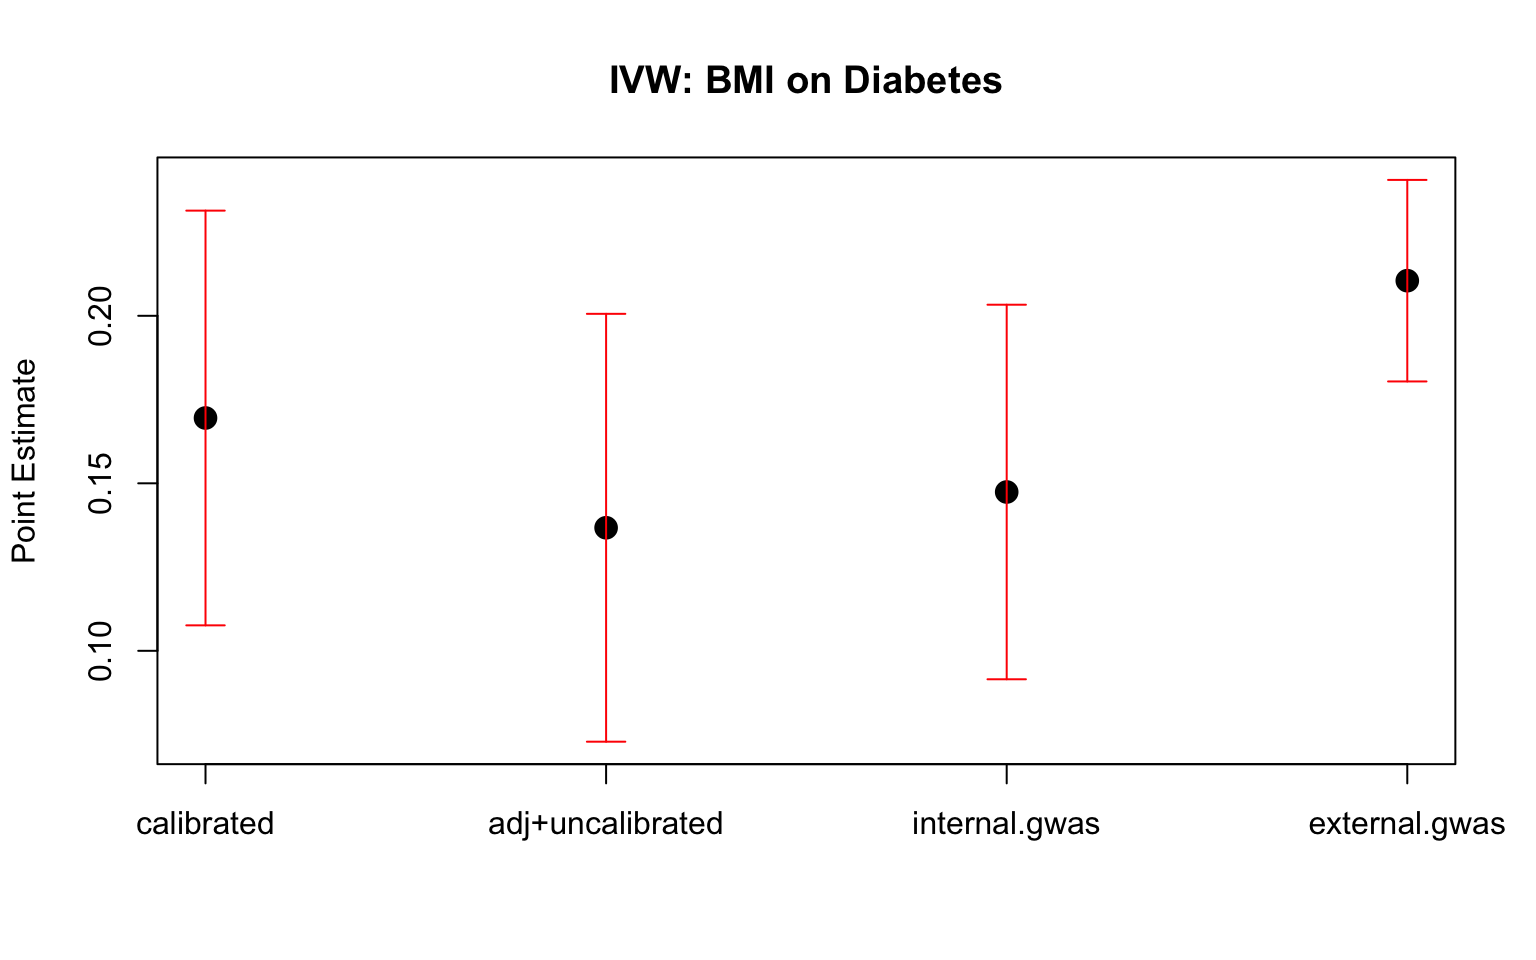
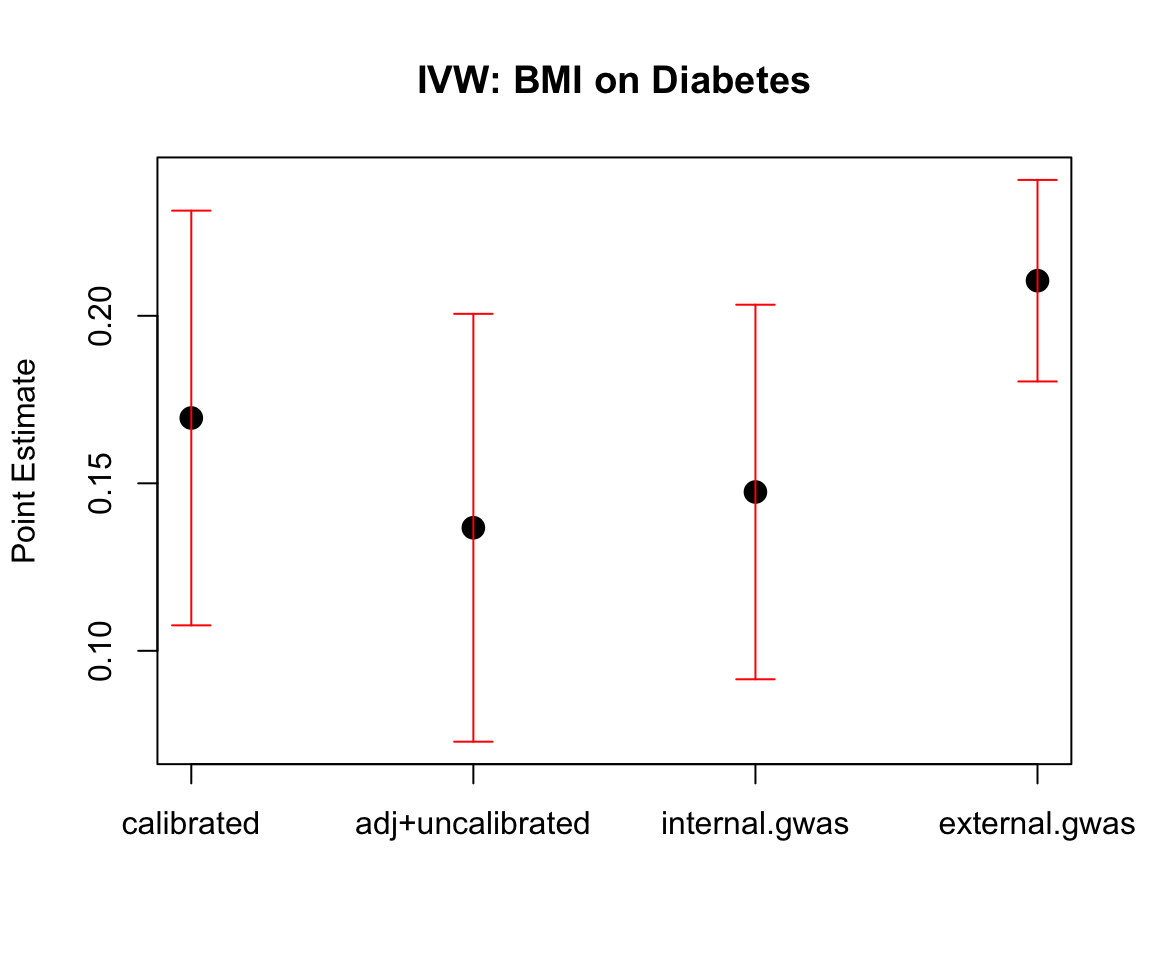
Build site.

diff --git a/docs/ukb_mr_sibling.html b/docs/ukb_mr_sibling.html
@@ -474,16 +474,16 @@ This reproducible <a href="http://rmarkdown.rstudio.com">R Markdown</a> analysis
 <div class="panel panel-default">
 <div class="panel-heading">
 <p class="panel-title">
-<a data-toggle="collapse" data-parent="#workflowr-checks" href="#strongRepositoryversionstrongahrefhttpsgithubcomyunqiyang0215simulationcalibratedmrtreea7d2b6a06e74072b10ed12794d0aeb7018fd66bdtargetblanka7d2b6aa"> <span class="glyphicon glyphicon-ok text-success" aria-hidden="true"></span> <strong>Repository version:</strong> <a href="https://github.com/yunqiyang0215/simulation-calibrated-mr/tree/a7d2b6a06e74072b10ed12794d0aeb7018fd66bd" target="_blank">a7d2b6a</a> </a>
+<a data-toggle="collapse" data-parent="#workflowr-checks" href="#strongRepositoryversionstrongahrefhttpsgithubcomyunqiyang0215simulationcalibratedmrtree231d6d124bf1cf6b7c4c4f644133e6abc1dd0061targetblank231d6d1a"> <span class="glyphicon glyphicon-ok text-success" aria-hidden="true"></span> <strong>Repository version:</strong> <a href="https://github.com/yunqiyang0215/simulation-calibrated-mr/tree/231d6d124bf1cf6b7c4c4f644133e6abc1dd0061" target="_blank">231d6d1</a> </a>
 </p>
 </div>
[2 lines of base64/hex data omitted]
 <div class="panel-body">
 <p>
 Great! You are using Git for version control. Tracking code development and connecting the code version to the results is critical for reproducibility.
 </p>
 <p>
-The results in this page were generated with repository version <a href="https://github.com/yunqiyang0215/simulation-calibrated-mr/tree/a7d2b6a06e74072b10ed12794d0aeb7018fd66bd" target="_blank">a7d2b6a</a>. See the <em>Past versions</em> tab to see a history of the changes made to the R Markdown and HTML files.
+The results in this page were generated with repository version <a href="https://github.com/yunqiyang0215/simulation-calibrated-mr/tree/231d6d124bf1cf6b7c4c4f644133e6abc1dd0061" target="_blank">231d6d1</a>. See the <em>Past versions</em> tab to see a history of the changes made to the R Markdown and HTML files.
 </p>
 <p>
 Note that you need to be careful to ensure that all relevant files for the analysis have been committed to Git prior to generating the results (you can use <code>wflow_publish</code> or <code>wflow_git_commit</code>). workflowr only checks the R Markdown file, but you know if there are other scripts or data files that it depends on. Below is the status of the Git repository when the results were generated:
@@ -532,6 +532,40 @@ Message
 </tr>
 </thead>
 <tbody>
+<tr>
+<td>
+Rmd
+</td>
+<td>
+<a href="https://github.com/yunqiyang0215/simulation-calibrated-mr/blob/231d6d124bf1cf6b7c4c4f644133e6abc1dd0061/analysis/ukb_mr_sibling.Rmd" target="_blank">231d6d1</a>
+</td>
+<td>
+yunqiyang0215
+</td>
+<td>
+2024-05-26
+</td>
+<td>
+wflow_publish("analysis/ukb_mr_sibling.Rmd")
+</td>
+</tr>
+<tr>
+<td>
+html
+</td>
+<td>
+<a href="https://rawcdn.githack.com/yunqiyang0215/simulation-calibrated-mr/0ff86d903903d753b586cdf1a672176dce592326/docs/ukb_mr_sibling.html" target="_blank">0ff86d9</a>
+</td>
+<td>
+yunqiyang0215
+</td>
+<td>
+2024-05-26
+</td>
+<td>
+Build site.
+</td>
+</tr>
 <tr>
 <td>
 Rmd
@@ -1157,7 +1191,7 @@ plot(1:4, point_est, ylim=c(min(point_est - error_bars), max(point_est + error_b
      xaxt=&#39;n&#39;, pch=19, xlab=&#39;&#39;, ylab=&#39;Point Estimate&#39;, main=&#39;IVW: BMI on Diabetes&#39;, cex=1.5)
 arrows(1:4, point_est - error_bars, 1:4, point_est + error_bars, angle=90, code=3, length=0.1, col=&#39;red&#39;)
 axis(1, at=1:4, labels=labels)</code></pre>
-<p><img src="figure/ukb_mr_sibling.Rmd/unnamed-chunk-5-1.png" width="768" style="display: block; margin: auto;" /></p>
+<p><img src="figure/ukb_mr_sibling.Rmd/unnamed-chunk-5-1.png" width="576" style="display: block; margin: auto;" /></p>
 <p>
 <button type="button" class="btn btn-default btn-xs btn-workflowr btn-workflowr-fig" data-toggle="collapse" data-target="#fig-unnamed-chunk-5-1">
 Past versions of unnamed-chunk-5-1.png
@@ -1180,6 +1214,17 @@ Date
 </tr>
 </thead>
 <tbody>
+<tr>
+<td>
+<a href="https://github.com/yunqiyang0215/simulation-calibrated-mr/blob/0ff86d903903d753b586cdf1a672176dce592326/docs/figure/ukb_mr_sibling.Rmd/unnamed-chunk-5-1.png" target="_blank">0ff86d9</a>
+</td>
+<td>
+yunqiyang0215
+</td>
+<td>
+2024-05-26
+</td>
+</tr>
 <tr>
 <td>
 <a href="https://github.com/yunqiyang0215/simulation-calibrated-mr/blob/af2f1d5490d9dd6704b0dc650dcb955511ea0dc8/docs/figure/ukb_mr_sibling.Rmd/unnamed-chunk-5-1.png" target="_blank">af2f1d5</a>
